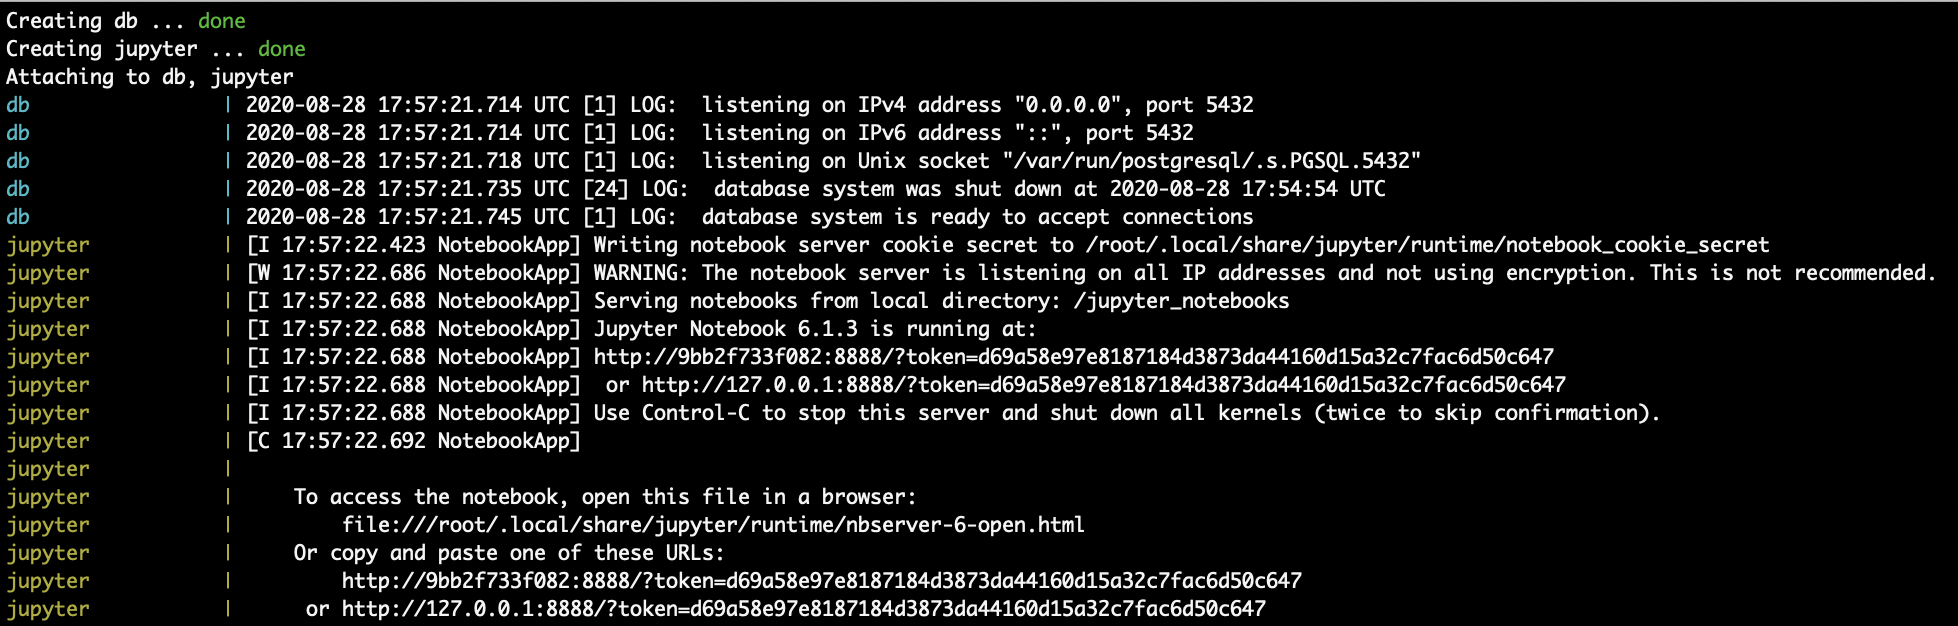
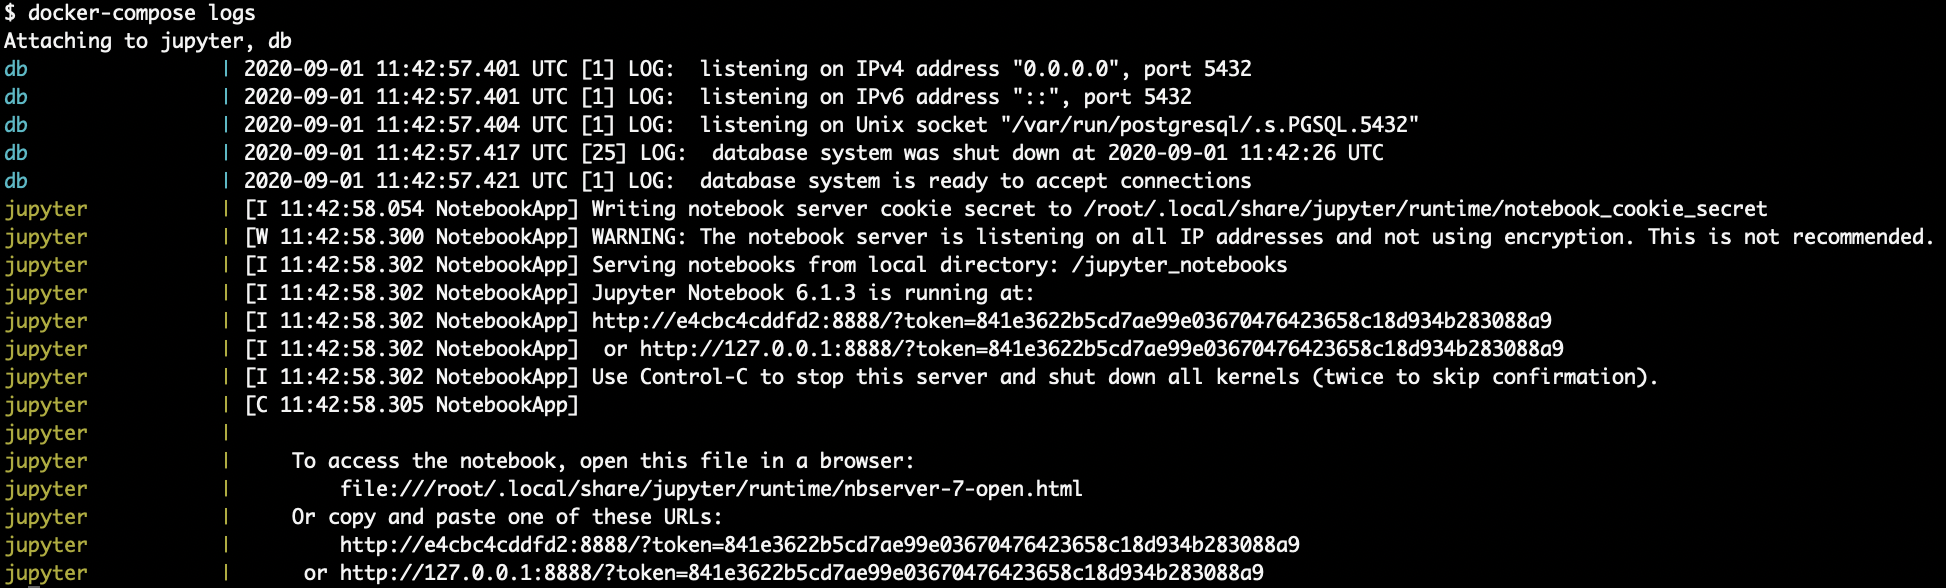
update docs

Changed region(s): [[0.0, 0.0, 1.0, 1.0], [0.1542, 0.7653, 0.6783, 1.0]]

diff --git a/documentation/documentation.md b/documentation/documentation.md
@@ -1,29 +1,42 @@
+# Preview
+Welcome to the SubcellularDistribution pipeline documentation! Please note: the bottom of this documentation file contains an Appendix with useful resources, including an introduction to image analysis, using the unix shell, and Docker commands. If you're unfamiliar with these concepts, you may want review the Appendix prior to starting.
+
 # 1. Software installation
+For Windows users, we recommend using Windows Powershell as your terminal program.
 
-## Step 1.1: Install Docker for your system
-The SubcellularDistribution pipeline is implemented using Docker in order to facilitate installation and reproducibility. Docker creates an isolated system on your computer, akin to a virtual machine. We provide instructions for Docker to recreate this container system across multiple different platforms. Instructions are provided on the Docker website for [Mac](https://docs.docker.com/docker-for-mac/install/) and [Windows](https://docs.docker.com/docker-for-windows/install/).
+As a general note, when we refer to a "directory", you can think of that as a folder on your operating system.w
 
-Since the Docker installation is a bit trickier on Windows, here we provide a brief overview of the steps required for installation on Windows 10:
-1. Open an Administrator Powershell window by pressing the Windows button + X, then selecting Windows Powershell (Admin) from the menu
-2. Enable Windows Subsytem for Linux WSL 1 using the following command:
-```bash
-dism.exe /online /enable-feature /featurename:Microsoft-Windows-Subsystem-Linux /all /norestart
-```
-3. Enable the "Virtual Machine Platform" feature:
-```bash
-dism.exe /online /enable-feature /feawsl --set-default-version 2turename:VirtualMachinePlatform /all /norestart
-```
-4. Restart your computer.
-5. Update to the Windows Subsystem for Linux 2 (WSL 2). Make sure that you're running the most up-to-date version of Windows available for your machine prior to trying this code. If you run into an error, you likely either need to update Windows or update your Linux kernel. See [this webpage](https://docs.microsoft.com/en-us/windows/wsl/install-win10) for more info.
-```bash
-wsl --set-default-version 2
-```
-6. Download and install the [Windows installer](https://www.docker.com/get-started)
+## Step 1.1 Install the Fiji image viewer
+We use [Fiji](https://fiji.sc/) to open and view z-stack .tif images. We recommend that you download and install Fiji prior to starting this workflow.
+
+## Step 1.2: Install Docker for your system
+The SubcellularDistribution pipeline is implemented using Docker in order to facilitate installation and reproducibility. Docker creates an isolated operating system on your computer, akin to a virtual machine. These isolated environments are called containers. We provide instructions for Docker to recreate this container system across multiple different platforms. Instructions are provided on the Docker website for [Mac](https://docs.docker.com/docker-for-mac/install/) and [Windows](https://docs.docker.com/docker-for-windows/install/).
 
 Once you have installed Docker, you will need to start the application. Once you're on the home screen of the Docker app, we recommend adjusting the memory resources available to your Docker containers. This setting is available in the "Preferences" interface under "Resources". On the Windows Docker Desktop app, you can adjust this in the Advanced tab under "Settings". We suggest starting with a minimum of 5 GB of memory available.
 
+The Docker installation is a bit trickier on Windows. You will need to have  Windows Subsystem for Linux 2 (WSL 2) installed and an up-to-date installation of Windows. Here is a brief overview of the installation process on Windows 10:
+1. Open an Administrator Powershell window by pressing the Windows button + X, then selecting Windows Powershell (Admin) from the menu
+2. Check to see if you have WSL 2 installed by typing the following command and then looking for the version of the distribution (distro)
+```bash
+wsl --list --verbose
+```
+If WSL 2 is installed, you can proceed to download the installer [from Docker]((https://www.docker.com/get-started)). If not, you can install it using the following steps (see more at [the Microsoft documentation](https://docs.microsoft.com/en-us/windows/wsl/install-win10)).
+3. To install WSL 2, first enable Windows Subsystem for Linux WSL 1 using the following command:
+```bash
+dism.exe /online /enable-feature /featurename:Microsoft-Windows-Subsystem-Linux /all /norestart
+```
+4. Enable the "Virtual Machine Platform" feature:
+```bash
+dism.exe /online /enable-feature /feawsl --set-default-version 2turename:VirtualMachinePlatform /all /norestart
+```
+5. Restart your computer.
+6. Update to the Windows Subsystem for Linux 2 (WSL 2). Make sure that you're running the most up-to-date version of Windows available for your machine prior to trying this code. If you run into an error, you likely either need to update Windows or update your Linux kernel. See [this webpage](https://docs.microsoft.com/en-us/windows/wsl/install-win10) for more info.
+```bash
+wsl --set-default-version 2
+```
+7. Download and install the [Windows installer](https://www.docker.com/get-started)
 
-## Step 1.2: Test git and install if necessary
+## Step 1.3: Test git and install if necessary
 You will use git to download the SubcellularDistribution pipeline code from GitHub. In order to test if you have git installed already, open up a Windows Powershell or Mac terminal window and type:
 
 ```bash
@@ -32,14 +45,15 @@ git --version
 
 If you see an error message that you don't have git, follow the instructions to install it [here for Mac](https://www.atlassian.com/git/tutorials/install-git#mac-os-x) or [here for PC](https://www.atlassian.com/git/tutorials/install-git#windows).
 
-## Step 1.3: Download the SubcellularDistribution pipeline from GitHub
-First, you should create a folder to contain your projects. We recommend something like a Projects folder within your home directory. Once you have created this folder, navigate to it using the terminal as follows:
+## Step 1.4: Download the SubcellularDistribution pipeline from GitHub
+First, you should create a folder to contain your projects. We recommend something like a Projects folder within your home directory. You can use the commands below to make a Projects folder and navigate to it using the terminal:
 
 ```bash
+mkdir ~/Projects
 cd ~/Projects
 ```
 
-Note that if you are on a Windows machine, your filepaths will have a `C:/` instead of `~/`. However, you can type them in using "~" to represent the home foler. For simplicity, we will write commands in the following directions using the Unix form.
+Note that if you on a Windows machine using Powershell, your filepaths will appear different than the filepaths we show (e.g. `C:\Users\username` instead of `/Users/username`). However, you should be able to use the commands we provide in Powershell and they'll be interpreted correctly. For simplicity, we will write commands in the following directions using the unix form.
 
 Once you are in this directory, download the SubcellularDistribution pipeline code from GitHub using the command:
 
@@ -49,7 +63,7 @@ git clone https://github.com/pearlryder/subcellular-distribution-pipeline
 
 Now you can navigate into this window using ```cd subcellular-distribution-pipeline```. You can test if the files have downloaded using ```ls```. You should see a printout to your terminal like this: ![terminal-git-clone](git-clone-ls.png).
 
-## Step 1.4: Add data to the "image-data" folder
+## Step 1.5: Add data to the "image-data" folder
 If you would like to test the code using our test dataset, you can download the dataset at [FigShare](https://figshare.com/projects/SubcellularDistribution_pipeline/86732). You will need to download the "centrosomes" and "rna" folders as well as the "raw-data-metadata.csv" file located within the "Supporting data for SubcellularDistribution Pipeline" dataset.
 
 Note that you'll need to reorganize this data (detailed below), as FigShare does not allow us to share it with you in the nested folders required for the pipeline.
@@ -60,22 +74,23 @@ If you are analyzing your own data, then you can create folders to hold images f
 
 If you intend to use the provided Allen Institute Cell Segmenter method for 3D segmentation, then you are done (for those trying out the pipeline with our data, we do provide optimized segmentation workflows) However, you have an option to provide 3D segmentations that you have generated using another program. In that case, simply add a "segmentations" folder within each "structure" folder for these 3D segmented images.
 
-## Step 1.5 Create a metadata file for your images
-Your raw-data images folder likely contains images of a control biological condition together with images from your experimental condition. You may also have multiple biological replicates or images from different biological conditions, such as developmental stages. You can use the database to help track where each image comes from -- is it an image of control condition or an experimental condition?
+## Step 1.6 Create a metadata file for your images
+Your image-data folder likely contains images of a control biological condition together with images from your experimental condition. You may also have multiple biological replicates or images from different biological conditions, such as developmental stages. You can use the database to help track where each image comes from -- is it an image of control condition or an experimental condition?
 
 You should store these data in a .csv file. We provide an example .csv file `raw-data-metadata.csv` with our sample dataset. You can create this file for your own experiment using Excel and then "Save As" .csv (you specifically want the "Comma Separated Values" file type and not the "CSV UTF-8" file type). The first row of your .csv file should contain labels that will become column names when you upload this data to postgres.
 
 Add this raw-data-metadata.csv file to the image-data folder.
 
-## Step 1.6: Start the SubcellularDistribution pipeline using docker-compose
+## Step 1.7: Start the SubcellularDistribution pipeline using docker-compose
 
-Once again, open a terminal window. Navigate to the subcellular-distribution-pipeline folder that you created in Step 1.3 (`cd ~/Projects/subcellular-distribution-pipeline` on a Mac or `cd C:/Projects/subcellular-distribution-pipeline` on Windows). Ensure that you're in the expected folder using the command ```pwd``` (print working directory). Next, you can initialize the SubcellularDistribution pipeline app using the command:
+Once again, open a terminal window. Navigate to the subcellular-distribution-pipeline folder that you created in Step 1.3 (`cd ~/Projects/subcellular-distribution-pipeline`). Ensure that you're in the expected folder using the command ```pwd``` (print working directory). Next, you can initialize the SubcellularDistribution pipeline app using the command:
 
 ```bash
-docker-compose up
+docker-compose up -d
+docker-compose logs
 ```
 
-This command creates a Docker container for the database, a container for running Python code and Jupyter notebooks, and a network bridge between the two containers so that they can interact with each other. When you run the docker-compose up command, you will see a printout to your terminal that contains logs for the container running the Jupyter notebooks. This will include a website that you can copy-paste into your browser in order to access the Jupyter notebooks in your computer. For example, the link is the last line in this image: ![jupyter-link](jupyter-link.png).
+When you run the docker-compose logs command, you will see a printout to your terminal that contains logs for the container running the Jupyter notebooks. This will include a website that you can copy-paste into your browser in order to access the Jupyter notebooks in your computer. For example, the link is the last line in this image: ![jupyter-link](jupyter-link.png).
 
 Copy-paste that link into a browser window, which will bring up the Jupyter notebook interface: ![jupyter-notebooks](jupyter-notebooks.png)
 
@@ -86,7 +101,11 @@ You're now ready to start processing data using the SubcellularDistribution pipe
 ## Step 2.1 Segment images using the Allen Institute Cell Segmenter
 The first step for this pipeline is to create 3D segmentations of your data. We provide instructions below for using the Allen Institute Cell Segmenter to segment your images. If you have a preferred segmentation method, you can also segment your images outside of the pipeline and add them to a "segmentations" folder inside each "structure" folder in the image-data folder.
 
-For the purpose of this documentation, we'll walk through the process of segmenting the "rna" smFISH signals. The process is the same for segmenting the centrosome data in our test dataset, you'll just need to use the corresponding Jupyter notebooks. If you have a different structure, you can use the [lookup table](https://www.allencell.org/segmenter.html) provided by the Allen Institute to determine the best starting point for your segmentation. We have provided these playground lookup tables in the "all_structure_playgrounds" folder inside of the segmentation folder.
+We **highly recommend** watching the Allen Cell Segmenter team's [video tutorial](https://www.allencell.org/segmenter.html) to learn more about the workflow. You can also read about executing Jupyter notebooks [here](https://jupyter-notebook-beginner-guide.readthedocs.io/en/latest/execute.html#executing-a-notebook). To understand the basics of the image segmentation process, we recommend [this video series](https://www.ibiology.org/techniques/bioimage-analysis/#part-1).
+
+In general, the approach of this segmentation workflow is to first figure out good parameters for segmentation using interactive "playground" notebooks. Once you've found a segmentation workflow that you're happy with, you can then use the "batch-segmentation" notebooks to process all of the images in your dataset.
+
+For the purpose of this documentation, we'll walk through the process of segmenting the "rna" smFISH signals. The process is the same for segmenting the centrosome data in our test dataset, you'll just need to use the corresponding Jupyter notebooks. If you have a different structure, you can use the [lookup table](https://www.allencell.org/segmenter.html) provided by the Allen Institute to determine the best playground notebook to use as a starting point for your segmentation. We have provided these playground lookup notebooks in the "all_structure_playgrounds" folder inside of the segmentation folder.
 
 In your browser with the Jupyter notebook interface, click on the "segmentation" folder. Then click on the playground_rna.ipynb Jupyter notebook to open it. Use the "Run" button to advance through each cell of the Jupyter notebook. These notebooks are interactive and allow you to visualize how each step of the workflow contributes to the final segmentation. We encourage you to adjust parameters and see how the output changes. For example, if the gaussian smoothing sigma starts at 1, try 0.1 and 5 to see how these changes affect the smoothing process. You can save final segmentations using the final cell. This code will save test segmentation files to an output folder in the home directory of the jupyter container.
 
@@ -113,11 +132,12 @@ If you changed the parameters in the Jupyter notebook for RNA segmentation, then
 Once you've updated your batch-rna-segmentation.ipynb code, execute each cell in the notebook using the Run button. You'll see a status message printed as each image segmentation is started. This notebook will save these images to a "segmentations" folder inside of the "image-data" folder. You can use the following Docker cp command to move the segmentation files outside of Docker, in order to inspect them against your data:
 
 ```bash
-docker cp jupyter://data/rna/segmentations ~/Projects/subcellular-distribution-pipeline/rna/
+docker cp jupyter:/data/rna/segmentations ~/Projects/subcellular-distribution-pipeline/rna/
 ```
 
-Once you're satisfied with the segmentations for your smFISH signal, you'll want to repeat the same process for your other structures of interest. If you're using our test-data to learn the workflow, you can repeat the steps above using the playground_centrosomes.ipynb and batch-centrosome-segmentation Jupyter notebooks. If you have other structures of interest, you can use the Allen Cell Segmenter [lookup table](https://www.allencell.org/segmenter.html) to identify a starting point for your segmentation workflow. We've provided the Allen Cell Segmenter playgrounds in the "all_structure_playgrounds" folder. Once you've optimized the workflow, you can duplicate the "batch-template-segmentation.ipynb" notebook and then copy-paste your segmentation workflow into that notebook. This process should allow you to segment most subcellular structures of interest.
+Once you're satisfied with the segmentations for your smFISH signal, you'll want to repeat the same process for your other structures of interest. If you're using our test image-data to learn the workflow, you can repeat the steps above using the playground_centrosomes.ipynb and batch-centrosome-segmentation Jupyter notebooks.
 
+If you have other structures of interest, you can use the Allen Cell Segmenter [lookup table](https://www.allencell.org/segmenter.html) to identify a starting point for your segmentation workflow. We've provided the Allen Cell Segmenter playgrounds in the "all_structure_playgrounds" folder. Once you've optimized the workflow, you can duplicate the "batch-template-segmentation.ipynb" notebook and then copy-paste your segmentation workflow into that notebook. This process should allow you to segment most subcellular structures of interest.
 
 # 3. Process data using the SubcellularDistribution pipeline
 Once you're satisfied with the segmentation process and you've run the batch processing notebooks, you're ready to process the data using the SubcellularDistribution pipeline. Navigate to the "pipeline" folder (look for a small blue folder icon to click on the top left of the gray toolbar on the Jupyter notebook interface). Now open the pipeline.ipynb notebook.
@@ -125,7 +145,7 @@ Once you're satisfied with the segmentation process and you've run the batch pro
 ## Step 3.1 Update parameters in cell 1
 The first step for this pipeline is to update your parameters. You can choose a name for your database.
 
-Next, you can update the path to the raw data and segmented images, if you've changed those (we recommend sticking to our defaults). You can also update the names of the folders that contain raw-data and segmentated images.
+Next, you can update the path to the raw data and segmented images, if you've changed those (we recommend sticking to our defaults). You can also update the names of the folders that contain raw-data and segmented images.
 
 You'll need to change the list of structures to match your experiment. For example, if you have an experiment with nuclei, myosin, and lysosomes, you would update the structures variable to:
 
@@ -330,9 +350,14 @@ gunzip < demo.gz | psql test username
 exit
 ```
 
+# Appendix: Useful resources
+Using the SubcellularDistribution pipeline requires some interaction with your operating system via the terminal. Here are a few resources and commands that you may find helpful.
 
-# Appendix: Useful commands
-Using the SubcellularDistribution pipeline requires some interaction with your operating system via the terminal. Here are a few useful commands that you may find helpful.
+## Basics of image analysis
+It's important to understand the fundamentals underlying image analysis. I recommend this series of talks on iBiology from Anne Carpenter (of CellProfiler) and Kevin Eliceiri (of ImageJ): [the Basics of Bioimage Analysis](https://www.ibiology.org/techniques/bioimage-analysis/)
+
+## Running Jupyter notebooks
+This beginner's guide may be helpful: [What is Jupyter?](https://jupyter-notebook-beginner-guide.readthedocs.io/en/latest/what_is_jupyter.html)
 
 ## Useful Linux commands
 The [Software Carpentry](http://swcarpentry.github.io/shell-novice/) has a nice introduction to using the Unix shell that you may find helpful.
